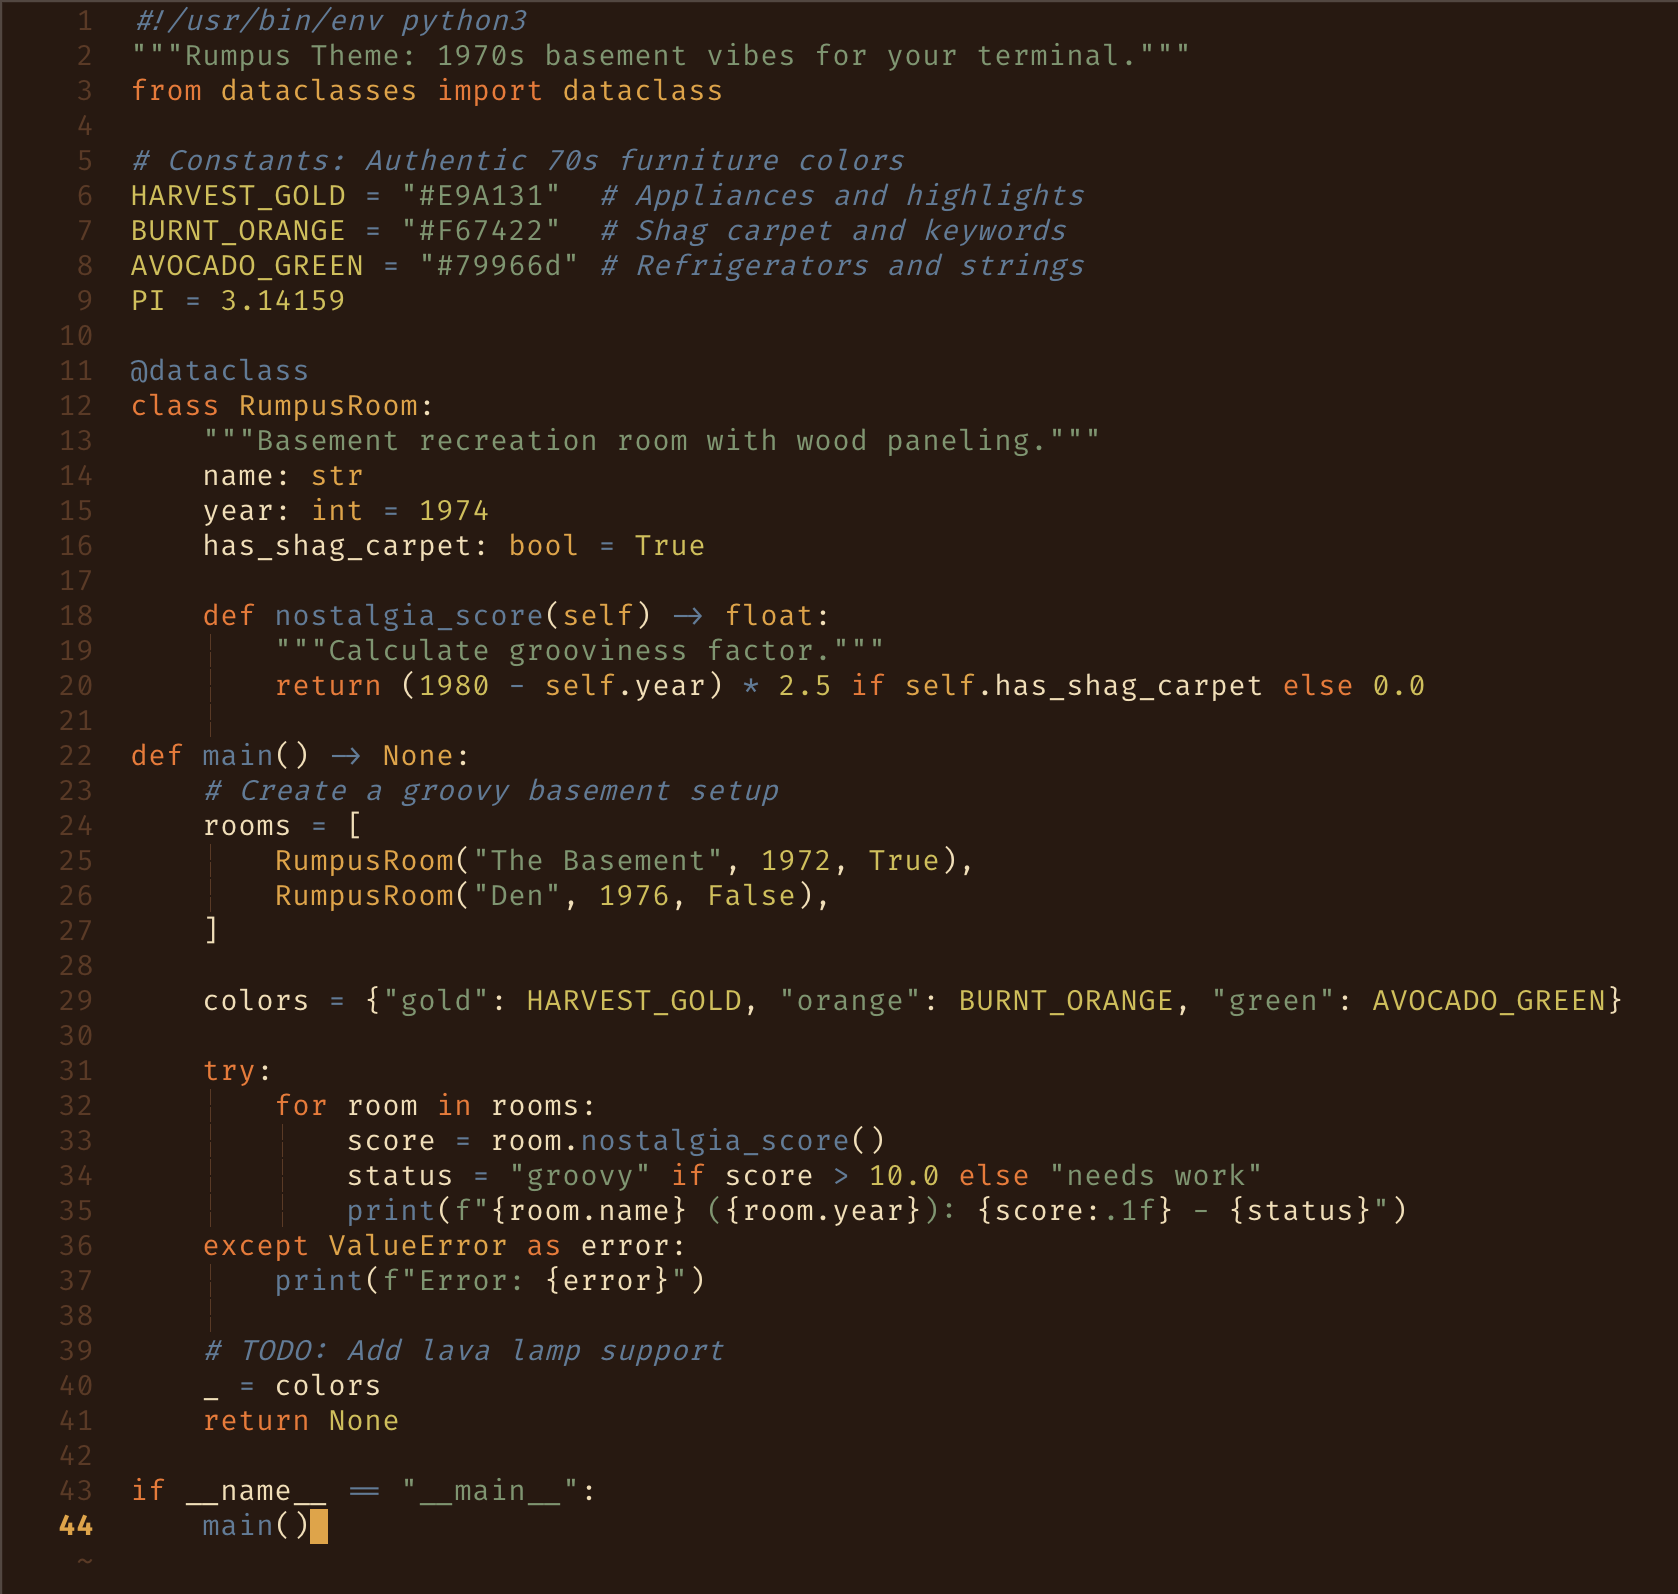
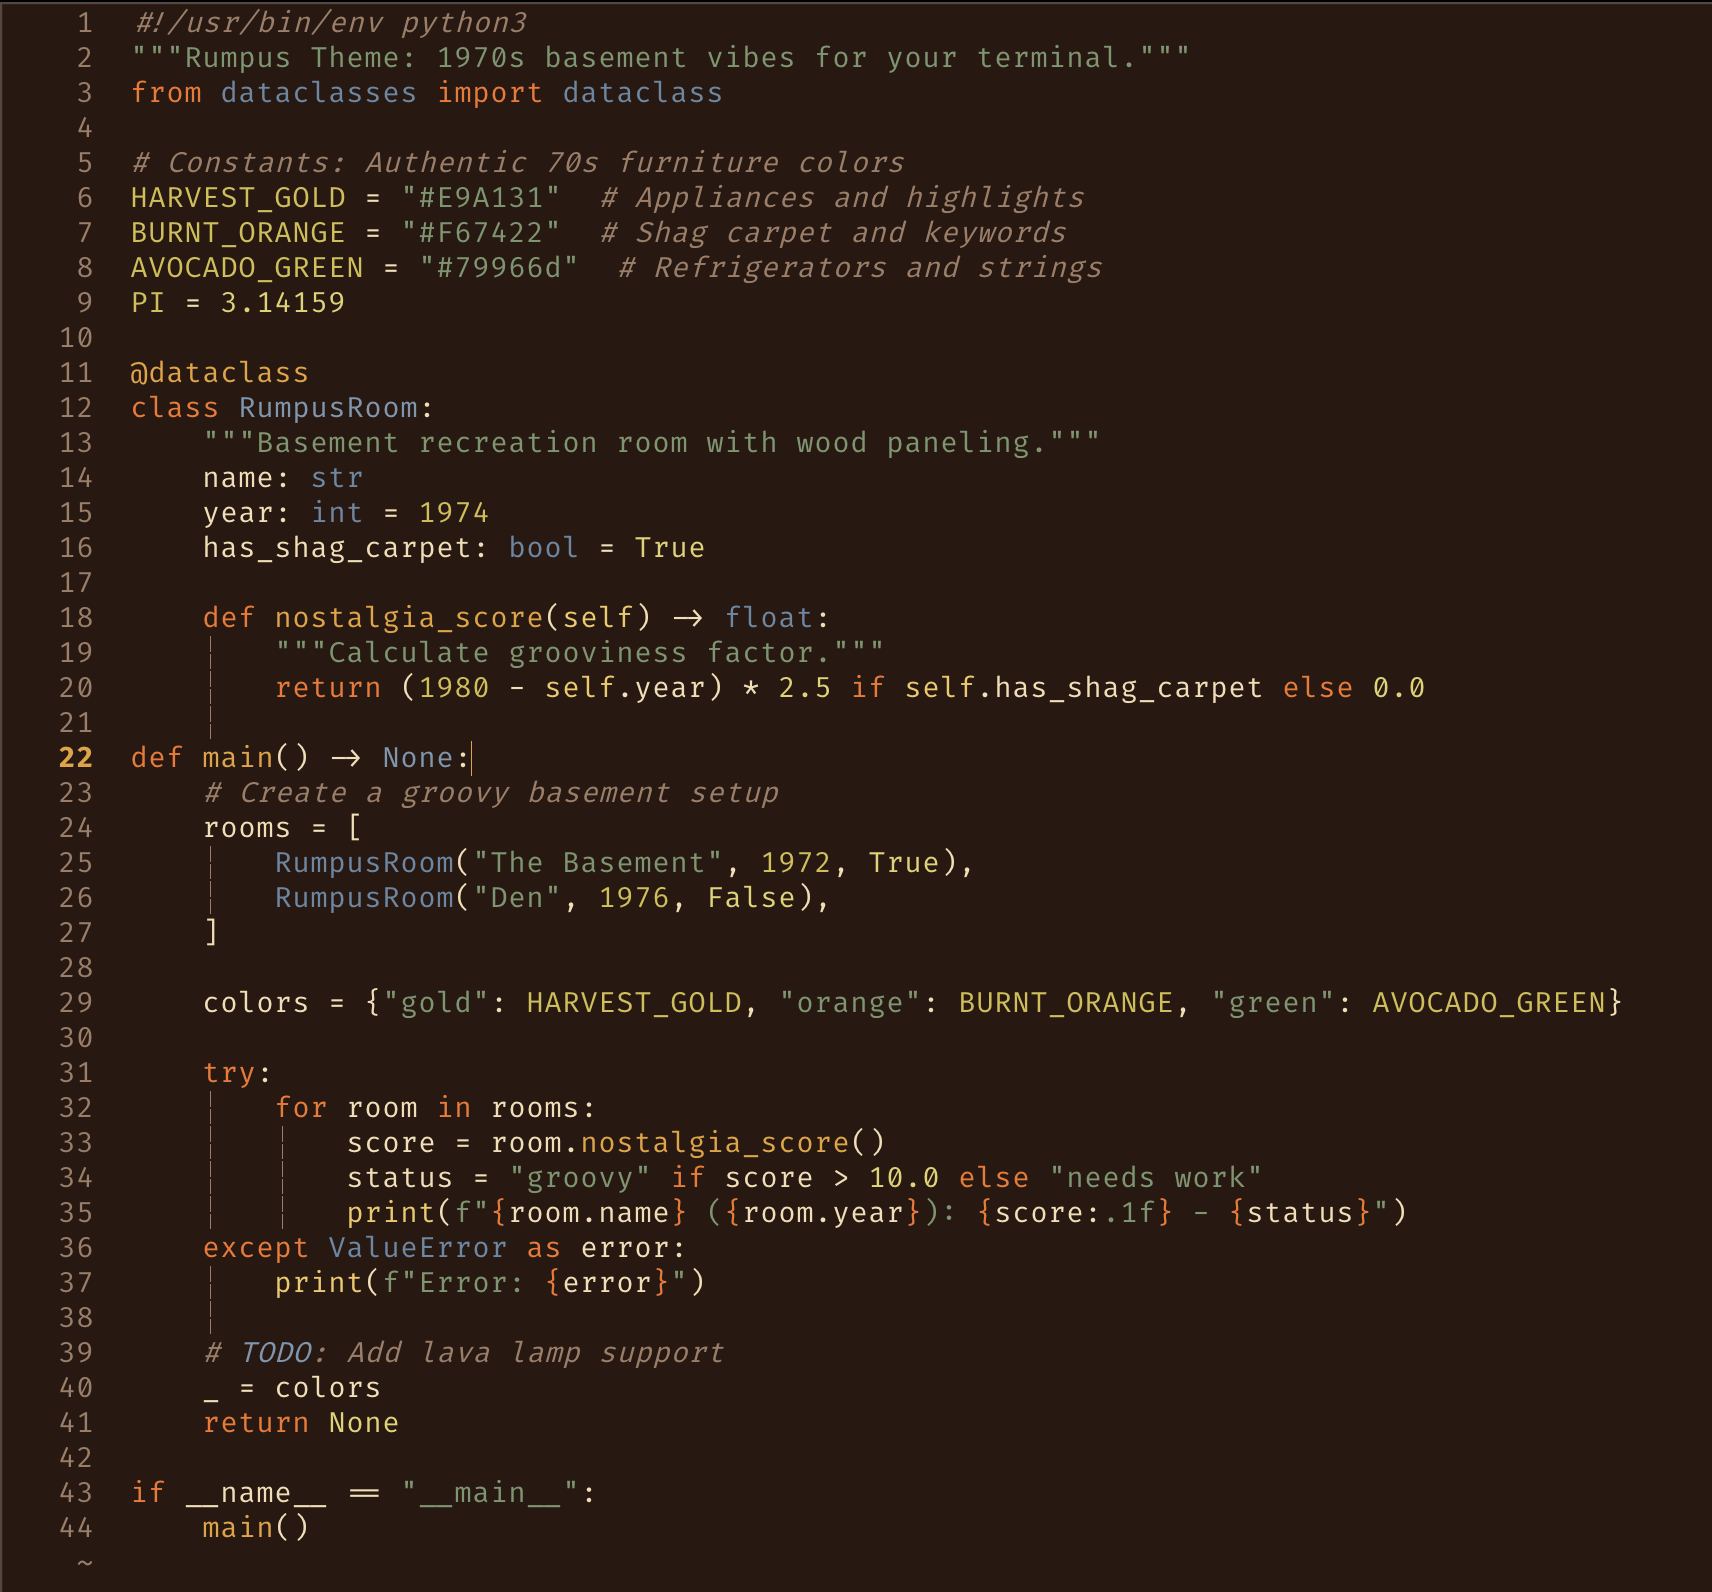
chore: update demo screenshot

diff --git a/docs/demo.py b/docs/demo.py
@@ -1,0 +1,44 @@
+#!/usr/bin/env python3
+"""Rumpus Theme: 1970s basement vibes for your terminal."""
+from dataclasses import dataclass
+
+# Constants: Authentic 70s furniture colors
+HARVEST_GOLD = "#E9A131"  # Appliances and highlights
+BURNT_ORANGE = "#F67422"  # Shag carpet and keywords
+AVOCADO_GREEN = "#79966d"  # Refrigerators and strings
+PI = 3.14159
+
+@dataclass
+class RumpusRoom:
+    """Basement recreation room with wood paneling."""
+    name: str
+    year: int = 1974
+    has_shag_carpet: bool = True
+
+    def nostalgia_score(self) -> float:
+        """Calculate grooviness factor."""
+        return (1980 - self.year) * 2.5 if self.has_shag_carpet else 0.0
+
+def main() -> None:
+    # Create a groovy basement setup
+    rooms = [
+        RumpusRoom("The Basement", 1972, True),
+        RumpusRoom("Den", 1976, False),
+    ]
+
+    colors = {"gold": HARVEST_GOLD, "orange": BURNT_ORANGE, "green": AVOCADO_GREEN}
+
+    try:
+        for room in rooms:
+            score = room.nostalgia_score()
+            status = "groovy" if score > 10.0 else "needs work"
+            print(f"{room.name} ({room.year}): {score:.1f} - {status}")
+    except ValueError as error:
+        print(f"Error: {error}")
+
+    # TODO: Add lava lamp support
+    _ = colors
+    return None
+
+if __name__ == "__main__":
+    main()
